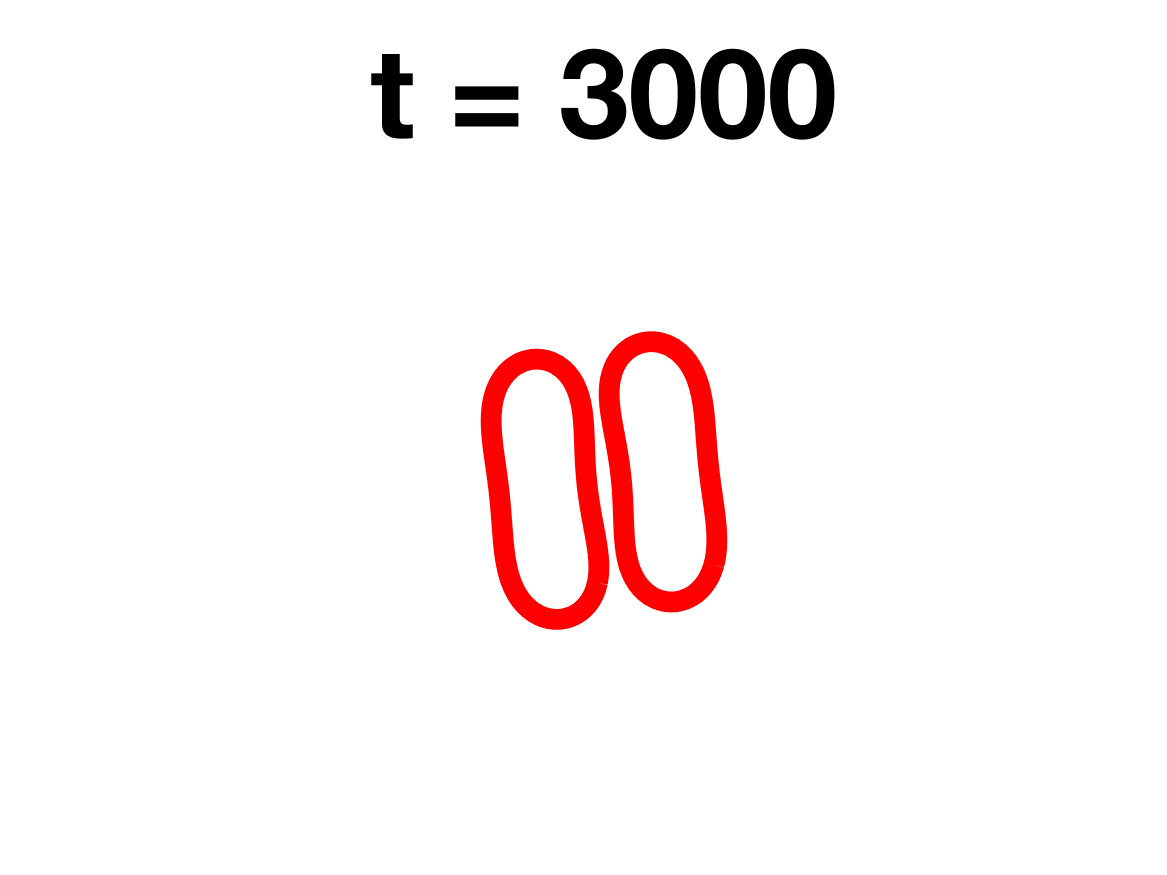
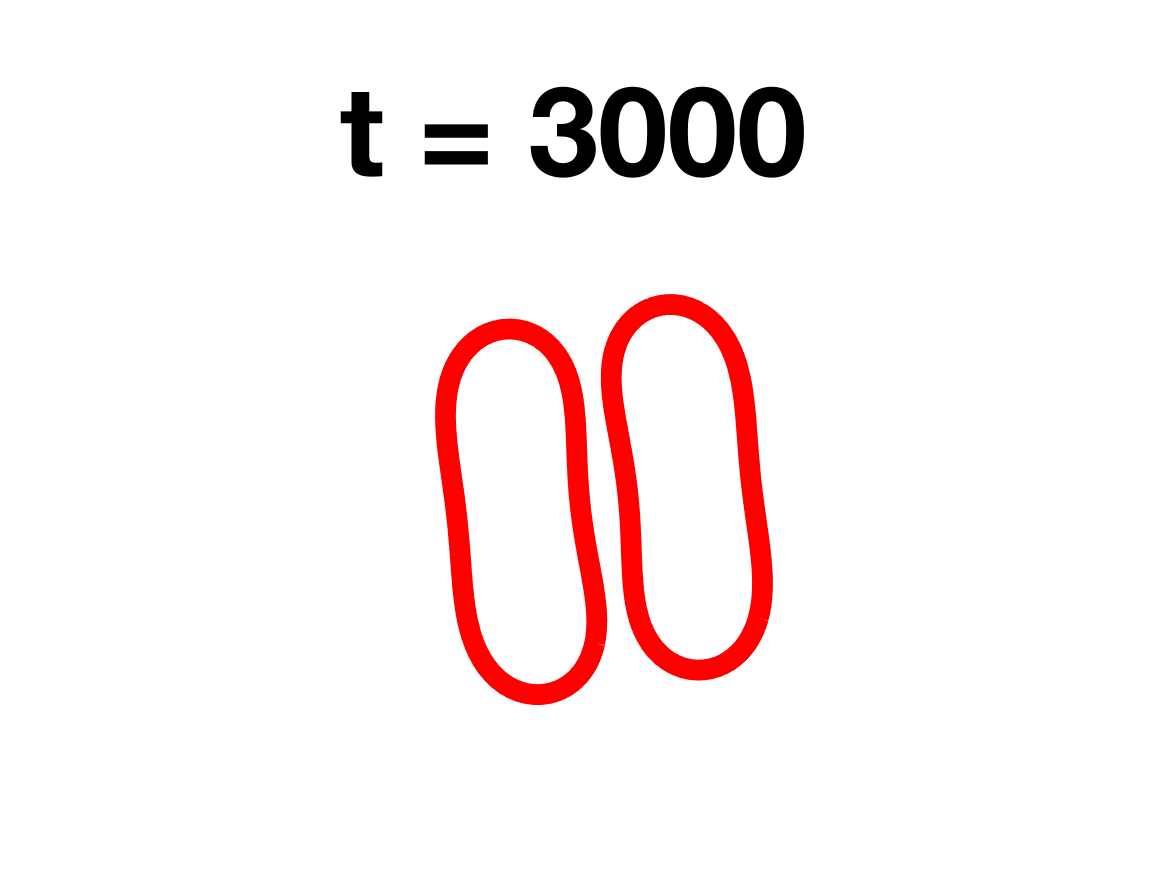
fixed some figures

Changed region(s): [[0.3702, 0.3394, 0.6787, 0.8023], [0.2776, 0.0309, 0.7404, 0.216]]

diff --git a/vesicle_code/docs/adhesion/adhesion.tex b/vesicle_code/docs/adhesion/adhesion.tex
@@ -711,8 +711,8 @@ position of the stagnation point by adjusting the streaming flow
 strength with a feedback loop~\cite{Johnson-Chavarria2011_EMJ}, a
 particle can be trapped at the stagnation point for long time scales to
 facilitate image acquisition or other detailed measures such as PIV of
-flow inside/around the particle.  To explore the application of such
-fluid trap to measure the adhesion strength between two bound vesicle
+flow inside and around the particle.  To explore the application of such
+a fluid trap to measure the adhesion strength between two bound vesicle
 membranes, we propose the following thought experiment.
 
 We begin from two vesicles forming a doublet under an adhesion potential
@@ -730,7 +730,7 @@ dependence of the critical extensional rate on the adhesion potential
 and the mechanical vesicle properties thus provides a means to probe the
 physics of membrane adhesion.
 
-
+\todo[inline]{Start rewriting from here}
 We consider two vesicles suspended in the extensional flow $\uu =
 \chi(-x,y)$, where $\chi$ is the extensional rate.  The vesicles are
 initially placed symmetrically on the $x$ axis in a quiescent flow

diff --git a/vesicle_code/examples/output/makeImages.m b/vesicle_code/examples/output/makeImages.m
@@ -4,8 +4,8 @@ set(0,'DefaultAxesFontSize',22)
 irate = 30; % controls the speed of the visualization
 
 if 1
-  file = 'extensional2VesGData.bin';
-  file = '~/projects/brinkman/vesicle_code/results/extensional2Ves/adR4em1adS7em1Chi1em1_ra080/extensional2VesData.bin';
+  file = 'extensional2VesAData.bin';
+%  file = '~/projects/brinkman/vesicle_code/results/extensional2Ves/adR4em1adS7em1Chi7em2_ra090_largerTol/extensional2VesData.bin';
   ax = [-4 4 -5 5];
   options.confined = false;
 end
